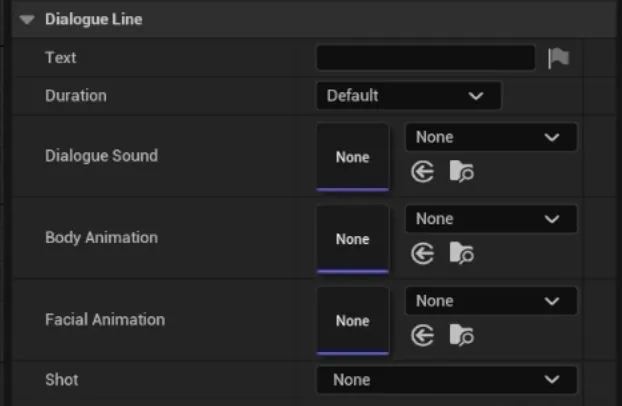
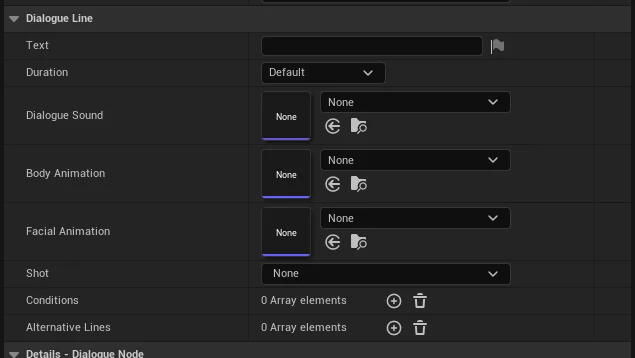
Updated dialogue documentation: clarified conditions, expanded node details, restored alternative lines, and removed outdated warnings.

diff --git a/docs/tales/dialogue/dialogue-nodes/node-breakdown.md b/docs/tales/dialogue/dialogue-nodes/node-breakdown.md
@@ -16,7 +16,6 @@ The dialogue node is the base node that contains all the details you want in the
 | Name                | Type                                                                         | Description                                                                                                                                    |
 |---------------------|------------------------------------------------------------------------------|------------------------------------------------------------------------------------------------------------------------------------------------|
 | Line                | [FDialogueLine](../dialogue-nodes/node-breakdown.md#dialogue-line)           | The dialogue line associated with this node.                                                                                                   |
-| AlternativeLines    | TArray\<[FDialogueLine](../dialogue-nodes/node-breakdown.md#dialogue-line)\> | If alternative lines are added in here, narrative will randomly select either the main line or one of the alternatives.                        |
 | OnDialogueFinished  | FOnDialogueNodeFinishedPlaying                                               | Delegate that is called when the dialogue node finishes playing.                                                                               |
 | PlayedLine          | [FDialogueLine](../dialogue-nodes/node-breakdown.md#dialogue-line)           | The last line the dialogue node played.                                                                                                        |
 | NPCReplies          | TArray\<[UDialogueNode_NPC](./node-breakdown.md#npc-dialogue-line)\>         | Array of NPC replies for debugging purposes.                                                                                                   |
@@ -31,22 +30,29 @@ The dialogue node is the base node that contains all the details you want in the
 
 The dialogue line is the text, audio, camera and settings you want in the specific line that is being played.
 
-These are seperated from the Node as during dialogue, you only need the base settings in order to process the shot making it more lightweight.
+These are separated from the Node as during dialogue, you only need the base settings in order to process the shot making it more lightweight.
+
+Note, the conditions on the line are not the same as the conditions on the node. The conditions on the node are the conditions that are run before the line is pending selection.
+
+The conditons on the line are the conditions that are select which line to use.
+
+Common examples for line based conditions are to select swearing or not swearing modes, or nice and nasty modes or gender based nodes.
 
 ![dialogue-line-details.webp](//img/dialogue/line/dialogue-line-details.webp)
 
 ### Properties
 
-| Name                    | Type                                               | Description                                                                                                                       |
-|-------------------------|----------------------------------------------------|-----------------------------------------------------------------------------------------------------------------------------------|
-| Text                    | FText                                              | The text for this dialogue node.                                                                                                  |
-| Duration                | ELineDuration                                      | The duration the line should play for.                                                                                            |
-| DurationSecondsOverride | float                                              | The overridden seconds the line should play for.                                                                                  |
-| DialogueSound           | USoundBase                                         | If a dialogue sound is selected, narrative will automatically play the sound for you in 3D space, at the location of the speaker. |
-| DialogueMontage         | UAnimMontage                                       | Narrative will play this montage on the first skeletal mesh component found on your speaker with the tag "Body" added to it.      |
-| FacialAnimation         | UAnimMontage                                       | Narrative will play this montage on the first skeletal mesh component found on your speaker with the tag "Face" added to it.      |
-| Shot                    | [UNarrativeDialogueSequence](../dialogue-sequence) | Shot to play for this line. Overrides speaker shot if one is set.                                                                 |
-
+| Name                    | Type                                                                         | Description                                                                                                                                    |
+|-------------------------|------------------------------------------------------------------------------|------------------------------------------------------------------------------------------------------------------------------------------------|
+| Text                    | FText                                                                        | The text for this dialogue node.                                                                                                               |
+| Duration                | ELineDuration                                                                | The duration the line should play for.                                                                                                         |
+| DurationSecondsOverride | float                                                                        | The overridden seconds the line should play for.                                                                                               |
+| DialogueSound           | USoundBase                                                                   | If a dialogue sound is selected, narrative will automatically play the sound for you in 3D space, at the location of the speaker.              |
+| DialogueMontage         | UAnimMontage                                                                 | Narrative will play this montage on the first skeletal mesh component found on your speaker with the tag "Body" added to it.                   |
+| FacialAnimation         | UAnimMontage                                                                 | Narrative will play this montage on the first skeletal mesh component found on your speaker with the tag "Face" added to it.                   |
+| Shot                    | [UNarrativeDialogueSequence](../dialogue-sequence)                           | Shot to play for this line. Overrides speaker shot if one is set.                                                                              |
+| Conditions              | TArray\<[UNarrativeCondition](../../conditions/index.md)\>                   | Conditions are functions that run before this line is pending selection and contain boolean returns that allow this node to be run or ignored. |
+| AlternativeLines        | TArray\<[FDialogueLine](../dialogue-nodes/node-breakdown.md#dialogue-line)\> | If alternative lines are added in here, narrative will randomly select either the main line or one of the alternatives.                        |
 
 ## NPC Dialogue Line
 

diff --git a/docs/tales/dialogue/index.md b/docs/tales/dialogue/index.md
@@ -77,14 +77,6 @@ Narrative will take this and automatically create the speakers if they do not ex
 
 Narrative does not let you import from Excel files, CSV’s or any other media.
 
-:::warning
-
-Copying and pasting dialogue nodes have been disabled until further notice. 
-
-It was causing corruption in assets and until it can be resolved up to the high Narrative standard, it has been removed.
-
-:::
-
 
 ## Player Name
 

diff --git a/docs/tales/dialogue/conditions.md b/docs/tales/dialogue/conditions.md
@@ -4,4 +4,6 @@ sidebar_label: 'Dialogue Conditions'
 
 # Dialogue Conditions
 
-See [Dialogue Conditions](../conditions/) for more information.
+Narrative Dialogue has two sets of conditions that can run. Both on the lines themselves and the nodes.
+
+See [Conditions](../conditions/) for more information.